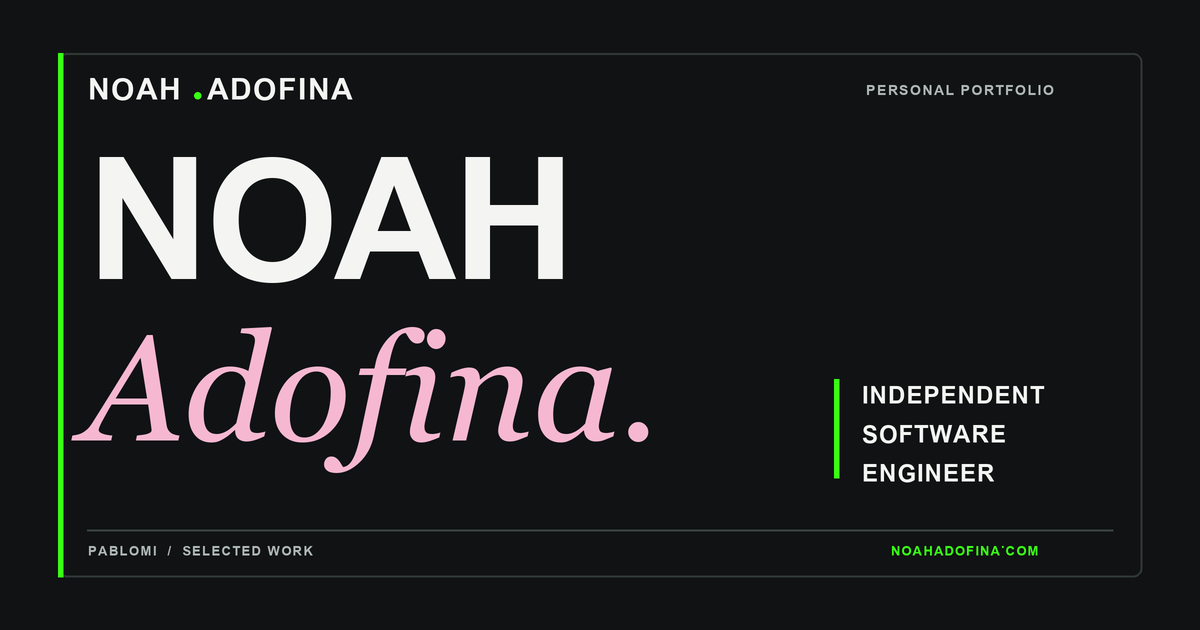
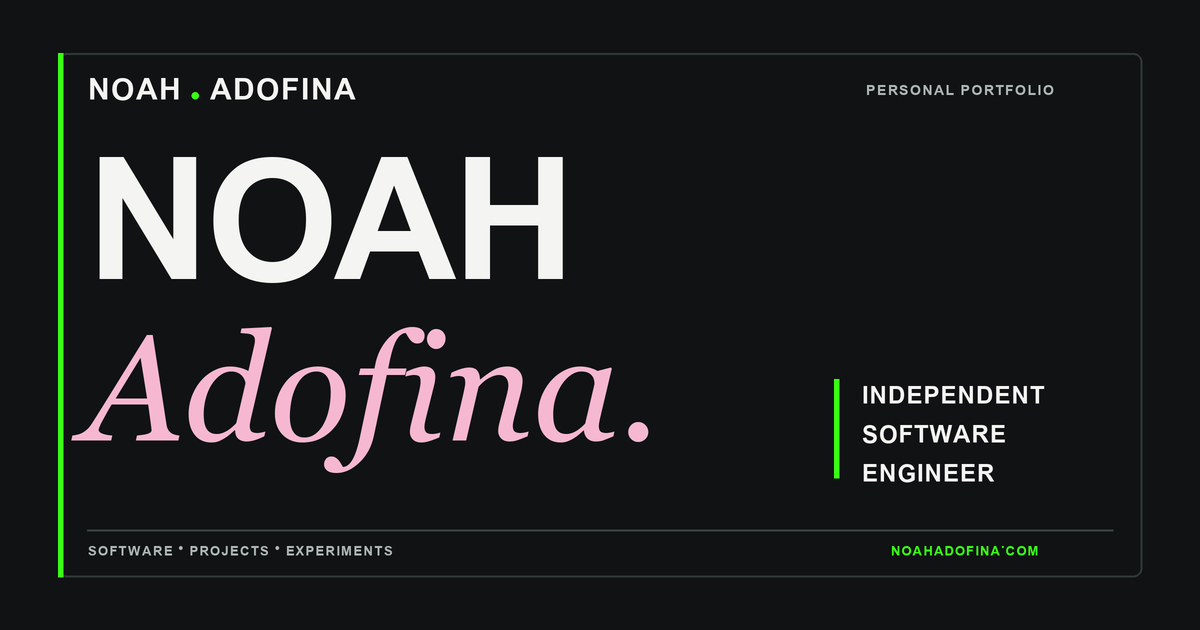
Polish portfolio social preview cards

Changed region(s): [[0.0617, 0.8444, 0.3083, 0.9048], [0.1542, 0.1206, 0.3083, 0.181]]

diff --git a/scripts/generate_social_cards.py b/scripts/generate_social_cards.py
@@ -1,0 +1,108 @@
+"""Regenerate the two 1200 x 630 portfolio social cards with Pillow.
+
+Run: python scripts/generate_social_cards.py
+Fonts: Windows Arial Bold and Georgia Italic; set SOCIAL_FONT_DIR to override.
+The original Pablomi screenshot is read, never modified.
+"""
+
+from __future__ import annotations
+
+import os
+from pathlib import Path
+
+from PIL import Image, ImageDraw, ImageFont, ImageOps
+
+ROOT = Path(__file__).resolve().parents[1]
+OUT = ROOT / "public" / "social"
+FONTS = Path(os.environ.get("SOCIAL_FONT_DIR", "C:/Windows/Fonts"))
+SCALE = 2
+WIDTH, HEIGHT = 1200, 630
+BG = "#101214"
+WHITE = "#F4F5F2"
+PINK = "#F6B8D1"
+GREEN = "#39FF14"
+MUTED = "#AEB7B4"
+
+
+def font(name: str, size: int) -> ImageFont.FreeTypeFont:
+    return ImageFont.truetype(str(FONTS / name), size * SCALE)
+
+
+def label(draw: ImageDraw.ImageDraw, x: int, y: int, value: str, face: str, size: int, color: str) -> None:
+    draw.text((x * SCALE, y * SCALE), value, font=font(face, size), fill=color, anchor="lt")
+
+
+def spaced_label(draw: ImageDraw.ImageDraw, x: int, y: int, value: str, face: str, size: int, color: str, spacing: float) -> float:
+    face_font = font(face, size)
+    cursor = x * SCALE
+    right = cursor
+    for char in value:
+        draw.text((cursor, y * SCALE), char, font=face_font, fill=color, anchor="lt")
+        right = cursor + draw.textbbox((0, 0), char, font=face_font, anchor="lt")[2]
+        cursor += draw.textlength(char, font=face_font) + spacing * SCALE
+    return right / SCALE
+
+
+def wordmark(draw: ImageDraw.ImageDraw) -> None:
+    # Measure the actual right edge of NOAH and give the dot equal clear space on both sides.
+    right = spaced_label(draw, 88, 78, "NOAH", "arialbd.ttf", 30, WHITE, 1.5)
+    gap, radius = 11, 3.5
+    dot_x = right + gap + radius
+    dot_y = 95.5
+    draw.ellipse(((dot_x - radius) * SCALE, (dot_y - radius) * SCALE,
+                  (dot_x + radius) * SCALE, (dot_y + radius) * SCALE), fill=GREEN)
+    spaced_label(draw, round(dot_x + radius + gap), 78, "ADOFINA", "arialbd.ttf", 30, WHITE, 1.5)
+
+
+def base() -> tuple[Image.Image, ImageDraw.ImageDraw]:
+    image = Image.new("RGB", (WIDTH * SCALE, HEIGHT * SCALE), BG)
+    draw = ImageDraw.Draw(image)
+    draw.rounded_rectangle((58*SCALE, 53*SCALE, 1142*SCALE, 577*SCALE), radius=9*SCALE,
+                           outline="#303836", width=2*SCALE)
+    draw.rectangle((58*SCALE, 53*SCALE, 63*SCALE, 577*SCALE), fill=GREEN)
+    wordmark(draw)
+    draw.line(((87*SCALE, 530*SCALE), (1113*SCALE, 530*SCALE)), fill="#3A4340", width=2*SCALE)
+    return image, draw
+
+
+def save(image: Image.Image, name: str) -> None:
+    OUT.mkdir(parents=True, exist_ok=True)
+    image.resize((WIDTH, HEIGHT), Image.Resampling.LANCZOS).save(OUT / name, optimize=True)
+
+
+def portfolio_card() -> None:
+    image, draw = base()
+    spaced_label(draw, 866, 85, "PERSONAL PORTFOLIO", "arialbd.ttf", 14, MUTED, 1.4)
+    spaced_label(draw, 87, 157, "NOAH", "arialbd.ttf", 170, WHITE, -4)
+    label(draw, 83, 327, "Adofina.", "georgiai.ttf", 150, PINK)
+    draw.rectangle((834*SCALE, 379*SCALE, 839*SCALE, 478*SCALE), fill=GREEN)
+    for y, value in [(386, "INDEPENDENT"), (425, "SOFTWARE"), (464, "ENGINEER")]:
+        spaced_label(draw, 862, y, value, "arialbd.ttf", 24, WHITE, 1)
+    spaced_label(draw, 88, 546, "SOFTWARE \u2022 PROJECTS \u2022 EXPERIMENTS", "arialbd.ttf", 13, MUTED, 1.4)
+    spaced_label(draw, 891, 546, "NOAHADOFINA.COM", "arialbd.ttf", 13, GREEN, 1.1)
+    save(image, "noah-adofina.png")
+
+
+def pablomi_card() -> None:
+    image, draw = base()
+    label(draw, 88, 174, "PABLOMI", "arialbd.ttf", 100, WHITE)
+    label(draw, 91, 315, "Social + messaging", "georgiai.ttf", 43, PINK)
+    label(draw, 92, 374, "for gamers.", "georgiai.ttf", 43, PINK)
+    draw.rectangle((93*SCALE, 464*SCALE, 97*SCALE, 493*SCALE), fill=GREEN)
+    label(draw, 111, 463, "PREPARING FOR PRIVATE TESTING", "arialbd.ttf", 15, WHITE)
+    screenshot = Image.open(ROOT / "public" / "projects" / "pablomi-chat.webp").convert("RGB")
+    screenshot = ImageOps.contain(screenshot, (530*SCALE, 300*SCALE), Image.Resampling.LANCZOS)
+    x, y = 600*SCALE, 181*SCALE
+    draw.rounded_rectangle((x+11*SCALE, y+13*SCALE, x+screenshot.width+11*SCALE,
+                            y+screenshot.height+13*SCALE), radius=5*SCALE, fill=PINK)
+    image.paste(screenshot, (x, y))
+    draw.rectangle((x-SCALE, y-SCALE, x+screenshot.width+SCALE, y+screenshot.height+SCALE),
+                   outline=WHITE, width=2*SCALE)
+    label(draw, 88, 546, "INDEPENDENTLY DESIGNED & DEVELOPED", "arialbd.ttf", 13, MUTED)
+    label(draw, 891, 546, "NOAHADOFINA.COM", "arialbd.ttf", 13, GREEN)
+    save(image, "pablomi.png")
+
+
+if __name__ == "__main__":
+    portfolio_card()
+    pablomi_card()
